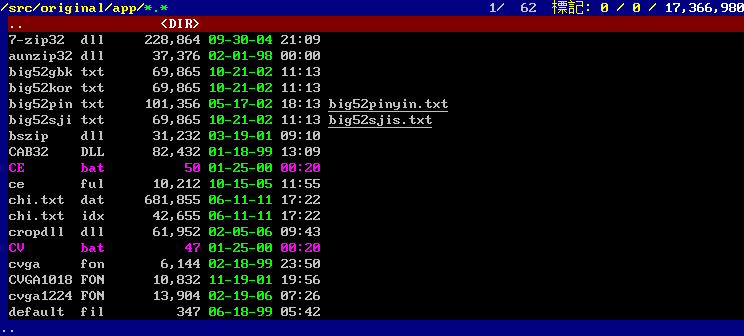
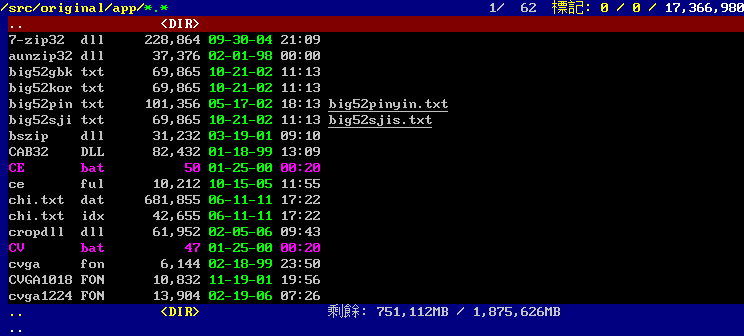
狀態列改成兩列,並接上真的磁碟容量
原版的狀態列是兩列,不是一列:

  第一列  游標檔案照**清單的欄位位置**再排一次(名稱、副檔名、大小、
          日期、時間都落在跟上面同一欄),#FFFF00;
          右邊接「剩餘: 可用 / 總量」,#C5C5C5。
          「剩餘」是接在時間欄之後,不是靠右對齊到畫面邊緣。
  第二列  完整檔名,#FFFFFF —— 清單那邊放的是截短版。

「剩餘」原本沒有資料源(Model.DiskBytes 從來沒人設過,所以永遠不顯示)。
補了 internal/vfs.DiskUsage,兩個平台各一份、都不用 cgo:

  unix     syscall.Statfs。可用空間取 Bavail 不是 Bfree ——
           後者含保留給 root 的那 5%,顯示出來會比實際可寫入的多。
           Bsize 在 Linux 是 int64、darwin 是 uint32,要先轉。
  windows  GetDiskFreeSpaceExW 而不是 GetDiskFreeSpace,
           後者的欄位是 32 位元,超過 2 TB 會回錯的值。

接成 Model.DiskStat hook 而不是直接呼叫 —— 壓縮檔內部也走同一個 Model,
那裡問「磁碟剩多少」沒有意義,由呼叫端決定要不要接。

驗證(docs/ui/main-screen.md 有重跑指令):
* 狀態列第二列 92 格**全部相同**,連字模都一樣 —— 三級驗收的第三級。
* 第一列 77/92,剩下的是「剩餘」的數字(值本來就會變)與那兩個全形字
  (Wine 用系統字型畫、帶消鋸齒,重製版是點陣字)。
* 總容量兩邊都量到 1,875,626MB,單位與換算對得上。
* 路徑列 + 清單 + 兩列狀態列共 1932 格:相同 85.2%,屬性差 16。

左側磁碟欄與捲軸不做:兩者都是 Win32 控制項,不在字元格點上,
結構上比不出等價。2 px 的分隔線同理,等高的格點塞不進去。

Changed region(s): [[0.0, 0.8929, 1.0, 0.9524]]

diff --git a/internal/browser/browser.go b/internal/browser/browser.go
@@ -38,7 +38,9 @@ type Theme struct {
 	MarkFG             cell.Color
 	MarkColBG          cell.Color // 最左邊那一欄(游標與標記的指示欄)的底色
 	CursorFG, CursorBG cell.Color
-	StatusFG, StatusBG cell.Color
+	StatusFG, StatusBG cell.Color // 第一列狀態列:游標檔案的各欄位
+	StatusDiskFG       cell.Color // 第一列右邊的「剩餘」
+	StatusNameFG       cell.Color // 第二列狀態列:完整檔名
 	BG                 cell.Color
 }
 
@@ -55,6 +57,8 @@ type Theme struct {
 //   - 游標列是白字配 #800000,不是反白。
 //   - 路徑列不是單一顏色:路徑本身 #FFFF00、尾巴的 "*.*" #00FF00、
 //     右邊的筆數 #C5C5C5、標記數 #FFFF00、目錄總位元組 #FFFFFF。
+//   - 狀態列是**兩列**:第一列把游標檔案照清單的欄位排一次(#FFFF00)
+//     加右邊的剩餘空間(#C5C5C5),第二列是完整檔名(#FFFFFF)。
 func DefaultTheme() Theme {
 	return Theme{
 		PathFG: cell.LtYellow, PathBG: cell.Blue,
@@ -66,7 +70,8 @@ func DefaultTheme() Theme {
 		MarkFG: cell.Yellow,
 		MarkColBG: cell.Blue,
 		CursorFG: cell.White, CursorBG: cell.Red,
-		StatusFG: cell.LtGray2, StatusBG: cell.Blue,
+		StatusFG: cell.LtYellow, StatusBG: cell.Blue,
+		StatusDiskFG: cell.LtGray2, StatusNameFG: cell.White,
 		BG: cell.Black,
 	}
 }
@@ -102,6 +107,11 @@ type Model struct {
 	// 設成 nil 就全部用 Theme.FileFG。判斷規則需要知道哪些副檔名是
 	// 壓縮檔、哪些是圖檔,那是上層才有的知識,所以做成 hook。
 	ColorOf func(e Entry) cell.Color
+
+	// DiskStat 回報這個目錄所在磁碟的可用與總容量,狀態列右邊要用。
+	// 做成 hook 而不是直接呼叫 vfs.DiskUsage —— 壓縮檔內部也走同一個
+	// Model,那裡問「磁碟剩多少」沒有意義,由呼叫端決定要不要接。
+	DiskStat func(dir string) (free, total int64)
 
 	// ReserveBottom 是畫面底部要留給別人用的列數(原版的預視窗格)。
 	// 狀態列會往上移到留白之上,列表也跟著變短。
@@ -146,6 +156,10 @@ func (m *Model) Load(dir string) error {
 	m.Notes = nil
 	if m.NoteLoader != nil {
 		m.Notes = m.NoteLoader(dir)
+	}
+	m.FreeBytes, m.DiskBytes = 0, 0
+	if m.DiskStat != nil {
+		m.FreeBytes, m.DiskBytes = m.DiskStat(dir)
 	}
 	return nil
 }
@@ -313,7 +327,7 @@ func (m *Model) Draw(s *cell.Screen) int {
 	s.Clear(t.FileFG, t.BG)
 
 	m.drawPathBar(s)
-	rows := s.Rows - 2 - m.ReserveBottom // 扣掉路徑列、狀態列與底部保留區
+	rows := s.Rows - 3 - m.ReserveBottom // 扣掉路徑列、兩列狀態列與底部保留區
 	if rows < 0 {
 		rows = 0
 	}
@@ -433,38 +447,65 @@ func (m *Model) drawRow(s *cell.Screen, y int, e Entry, cursor bool) {
 	}
 }
 
-// statusY 是狀態列的位置。有底部保留區時要往上讓。
+// statusY 是狀態列**第一列**的位置,第二列在它下面。
+// 有底部保留區時兩列一起往上讓。
 func (m *Model) statusY(s *cell.Screen) int {
-	y := s.Rows - 1 - m.ReserveBottom
+	y := s.Rows - 2 - m.ReserveBottom
 	if y < 1 {
-		y = s.Rows - 1
+		y = s.Rows - 2
+	}
+	if y < 1 {
+		y = 1
 	}
 	return y
 }
 
+// drawStatus 畫兩列狀態列。
+//
+// 第一列是游標所在檔案,**照清單的欄位位置**再排一次(不是重新排版):
+// 名稱、副檔名、大小、日期、時間都落在跟上面清單同一欄。
+// 原版就是這樣,量測見 docs/ui/main-screen.md。
+// 第二列是完整檔名 —— 清單那邊放的是截短版,長名要在這裡才看得全。
 func (m *Model) drawStatus(s *cell.Screen) {
 	t := m.Theme
 	y := m.statusY(s)
-	s.Fill(0, y, s.Cols, 1, ' ', t.StatusFG, t.StatusBG)
+	s.Fill(0, y, s.Cols, 2, ' ', t.StatusFG, t.StatusBG)
+
 	if e := m.Current(); e != nil {
-		line := e.Name
-		if !e.IsDir {
-			line = fmt.Sprintf("%s  %s", e.Name, comma(e.Size))
+		x := 1
+		x += s.Print(x, y, pad(truncate(e.Base(), colBase), colBase), t.StatusFG, t.StatusBG)
+		x++
+		x += s.Print(x, y, pad(truncate(e.Ext(), colExt), colExt), t.StatusFG, t.StatusBG)
+		x++
+		size := comma(e.Size)
+		if e.IsDir {
+			size = "<DIR>"
 		}
+		x += s.Print(x, y, lpad(size, colSize), t.StatusFG, t.StatusBG)
+		x++
 		if !e.ModTime.IsZero() {
-			line += "  " + e.ModTime.Format("2006-01-02 15:04")
+			x += s.Print(x, y, e.ModTime.Format("01-02-06"), t.StatusFG, t.StatusBG)
+			x++
+			s.Print(x, y, e.ModTime.Format("15:04"), t.StatusFG, t.StatusBG)
 		}
+
+		full := e.Name
 		if n := m.Notes[e.Name]; n != "" {
-			line += "  ; " + n
+			full += "  ; " + n
 		}
-		s.Print(0, y, line, t.StatusFG, t.StatusBG)
+		s.Print(1, y+1, full, t.StatusNameFG, t.StatusBG)
 	}
+
 	if m.DiskBytes > 0 {
 		right := fmt.Sprintf("剩餘: %sMB / %sMB",
 			comma(m.FreeBytes>>20), comma(m.DiskBytes>>20))
-		x := s.Cols - width(right)
+		// 原版把「剩餘」接在時間欄之後,不是靠右對齊到畫面邊緣。
+		x := 1 + colBase + 1 + colExt + 1 + colSize + 1 + colDate + 1 + colTime + 1
+		if x+width(right) > s.Cols {
+			x = s.Cols - width(right)
+		}
 		if x >= 0 {
-			s.Print(x, y, right, t.StatusFG, t.StatusBG)
+			s.Print(x, y, right, t.StatusDiskFG, t.StatusBG)
 		}
 	}
 }

diff --git a/internal/vfs/disk_test.go b/internal/vfs/disk_test.go
@@ -1,0 +1,32 @@
+package vfs
+
+import "testing"
+
+// 這條驗的是「有回答、而且答案自洽」,不驗絕對數字 ——
+// 任何一台機器的剩餘空間都不是常數。
+//
+// 沒有這條的話,平台分歧最容易出的錯(Bsize 型別轉換、
+// 欄位順序拿錯)會安靜地變成一個看起來合理的數字。
+func TestDiskUsage(t *testing.T) {
+	free, total, err := DiskUsage(t.TempDir())
+	if err != nil {
+		t.Fatalf("DiskUsage: %v", err)
+	}
+	if total == 0 {
+		t.Fatal("總容量是 0")
+	}
+	if free > total {
+		t.Errorf("可用 %d 比總量 %d 還大", free, total)
+	}
+	// 一個現代檔案系統不會小於 1 MB。抓的是「單位算錯」——
+	// 少乘一次 block size 會得到一個小得離譜但非零的數字。
+	if total < 1<<20 {
+		t.Errorf("總容量 %d 太小,單位可能算錯", total)
+	}
+}
+
+func TestDiskUsageMissingPath(t *testing.T) {
+	if _, _, err := DiskUsage("/this/path/does/not/exist"); err == nil {
+		t.Error("路徑不存在卻沒有回錯誤")
+	}
+}

diff --git a/internal/vfs/disk_windows.go b/internal/vfs/disk_windows.go
@@ -1,0 +1,36 @@
+package vfs
+
+import (
+	"syscall"
+	"unsafe"
+)
+
+var (
+	kernel32            = syscall.NewLazyDLL("kernel32.dll")
+	procGetDiskFreeSpce = kernel32.NewProc("GetDiskFreeSpaceExW")
+)
+
+// DiskUsage 回傳 path 所在磁碟的可用與總位元組。
+//
+// 走 GetDiskFreeSpaceExW 而不是 GetDiskFreeSpace:後者的欄位是 32 位元,
+// 超過 2 TB 的磁碟會回錯的值。
+//
+// 第一個輸出參數是「呼叫者的配額內可用」,第三個才是磁碟的實際剩餘;
+// 有磁碟配額時兩者不同,顯示給使用者看的是前者。
+func DiskUsage(path string) (free, total uint64, err error) {
+	p, err := syscall.UTF16PtrFromString(path)
+	if err != nil {
+		return 0, 0, err
+	}
+	var avail, totalBytes, totalFree uint64
+	r, _, e := procGetDiskFreeSpce.Call(
+		uintptr(unsafe.Pointer(p)),
+		uintptr(unsafe.Pointer(&avail)),
+		uintptr(unsafe.Pointer(&totalBytes)),
+		uintptr(unsafe.Pointer(&totalFree)),
+	)
+	if r == 0 {
+		return 0, 0, e
+	}
+	return avail, totalBytes, nil
+}

diff --git a/internal/app/shell.go b/internal/app/shell.go
@@ -8,6 +8,7 @@ import (
 	"github.com/wicanr2/wincv-remake/internal/launch"
 	"github.com/wicanr2/wincv-remake/internal/note"
 	"github.com/wicanr2/wincv-remake/internal/textenc"
+	"github.com/wicanr2/wincv-remake/internal/vfs"
 )
 
 // --- P 改變路徑 -----------------------------------------------------------
@@ -130,6 +131,19 @@ func (a *App) loadNotes(dir string) map[string]string {
 		return nil
 	}
 	return s.Raw()
+}
+
+// diskStat 是給 browser 的磁碟容量 hook。壓縮檔內部沒有對應的磁碟,
+// 回 0 讓狀態列不顯示 —— 顯示宿主磁碟的剩餘空間會誤導。
+func (a *App) diskStat(dir string) (free, total int64) {
+	if a.readOnlyHere() {
+		return 0, 0
+	}
+	f, t, err := vfs.DiskUsage(dir)
+	if err != nil {
+		return 0, 0
+	}
+	return int64(f), int64(t)
 }
 
 func (a *App) startNote() bool {

diff --git a/internal/vfs/disk_unix.go b/internal/vfs/disk_unix.go
@@ -1,0 +1,22 @@
+//go:build !windows
+
+package vfs
+
+import "syscall"
+
+// DiskUsage 回傳 path 所在檔案系統的可用與總位元組。
+//
+// 用 statfs 而不是 statvfs:前者是系統呼叫,不需要 cgo。
+// Bsize 在 Linux 是 int64、在 darwin 是 uint32,所以要先轉。
+//
+// 可用空間取 Bavail(非特權使用者真正拿得到的)而不是 Bfree
+// (含保留給 root 的那一塊)—— 兩者在預設 ext4 上差 5%,
+// 顯示 Bfree 會讓「剩餘空間」比實際可寫入的多。
+func DiskUsage(path string) (free, total uint64, err error) {
+	var st syscall.Statfs_t
+	if err := syscall.Statfs(path, &st); err != nil {
+		return 0, 0, err
+	}
+	bs := uint64(st.Bsize)
+	return uint64(st.Bavail) * bs, uint64(st.Blocks) * bs, nil
+}

diff --git a/internal/app/app.go b/internal/app/app.go
@@ -130,6 +130,7 @@ type layer struct {
 func New(fsys vfs.FS, dir string) *App {
 	a := &App{FS: fsys, Browser: browser.New(fsys, dir), CellW: 8, CellH: 15}
 	a.Browser.NoteLoader = a.loadNotes
+	a.Browser.DiskStat = a.diskStat
 	a.Browser.ColorOf = fileColor
 	a.Browser.Reload() // New 時 hook 還沒接上,重讀一次才會有註解
 	return a

diff --git a/docs/ui/main-screen.md b/docs/ui/main-screen.md
@@ -46,7 +46,7 @@ select_font Chosen: L"System Regular" (Z:\usr\share\wine\fonts\cvgasys.fon)
 | 22..38 | 工具列(Win32,含圖示) |
 | 40 | 路徑列 `C:\wincv\*.*` + 位置 + 標記統計(1 列) |
 | 56, 72, …, 328 | 檔案清單(**18 列**,間距 16) |
-| 344..345 | 2 px 分隔 |
+| 344..345 | 2 px 分隔(上白 `#FFFFFF`、下 `#C5C5C5`) |
 | 346, 362 | 狀態列(2 列) |
 | 378 起 | 預視窗格(8 列 × 16 = 128 px) |
 
@@ -72,7 +72,9 @@ select_font Chosen: L"System Regular" (Z:\usr\share\wine\fonts\cvgasys.fon)
 | 時間、大小 | 跟著檔案自己的顏色 | magenta 的檔案連時間都是 magenta |
 | 長檔名欄 | `#C0C0C0` + **底線** | 底線畫在格子的最後一條掃描線(第 15 條) |
 | 游標列 | 白字配 `#800000` | 不是反白 |
-| 狀態列 | `#C5C5C5` on `#000080` | |
+| 狀態列第一列 | `#FFFF00` on `#000080` | 游標檔案照清單的欄位再排一次 |
+| 狀態列的「剩餘」 | `#C5C5C5` | 接在時間欄之後,不是靠右對齊到畫面邊緣 |
+| 狀態列第二列 | `#FFFFFF` on `#000080` | 完整檔名 |
 
 `#C5C5C5` 是 `LTGRAY` 在 image 裡的**第二個**定義(0x50210);
 檔案清單用的是 0x1dc40 的 `#C0C0C0`。兩個定義都活著,不是同一個 word 被改過。
@@ -87,26 +89,28 @@ tools/celldiff.py docs/ui/oracle-window.png docs/ui/celldiff-remake.png \
 ```
 
 比的是同一個目錄(原版的 `C:\wincv` = 這裡的 `original/app`),游標放在同一列。
-路徑列 + 檔案清單共 1748 格:
+狀態列那兩列要另外對:原版被 2 px 的分隔線往下推,落在 y=346 / 362,
+不在 `oy=40` 起算的 16 px 格點上。
 
-| | 格數 |
-|---|---|
-| 完全相同 | 1478(84.6%) |
-| 版面差 | 74 |
-| **屬性差** | **12** |
-| 像素差 | 184 |
+| 範圍 | 格數 | 相同 | 版面差 | 屬性差 | 像素差 |
+|---|---|---|---|---|---|
+| 路徑列 + 清單 + 兩列狀態列 | 1932 | 1647(85.2%) | 74 | 16 | 195 |
+| 只看檔案清單 18 列 | 1656 | 1443(87.1%) | 38 | **0** | 175 |
+| 狀態列第二列 | 92 | **92(100%)** | 0 | 0 | 0 |
 
-**檔案清單那 16 列的屬性差是 0** —— 三級驗收的第二級(屬性等價)在清單區成立。
-剩下的 12 格屬性差全在路徑列,原因是路徑字串本身不一樣
-(`C:\wincv\` vs `/src/original/app/`),欄位的起點跟著移位。
+**檔案清單的屬性差是 0**,狀態列第二列連字模都完全相同 ——
+三級驗收的第二級(屬性等價)在這兩處成立,第二列連第三級(像素等價)也成立。
 
-版面差與像素差同樣多半是**資料不同**而不是畫錯:
+剩下的差異多半是**資料不同**而不是畫錯:
 
 - 檔案的修改時間不一樣(原版那份是 Wine 裡的複本)。
 - Wine 把長檔名顯示成 8.3 大寫短名(`BIG5~X5T TXT`),重製版顯示原名。
-- 第 92 欄是原版的 Win32 捲軸控制項,不在格點上,結構上比不出等價。
+- 「剩餘」的可用空間會隨時間變動;**總容量兩邊都是 1,875,626MB**,單位與換算對得上。
+- 狀態列第一列的 4 格屬性差是「剩餘」那兩個全形字:Wine 用系統字型畫、帶消鋸齒,
+  重製版是點陣字。這是 Wine 的算繪差異,不是版面差異。
 
-還沒實作而確實造成差異的:第二列狀態列(原版有兩列)、左側磁碟欄、捲軸。
+還沒實作的:2 px 分隔線(格點是等高的,塞不進 2 px 的橫線)、
+左側磁碟欄與捲軸(都是 Win32 控制項,不在格點上,結構上比不出等價)。
 
 ## 重製版對應
 

diff --git a/README.md b/README.md
@@ -72,7 +72,8 @@ CView 是「以前 DOS 時代最喜歡的一套軟體」，看圖「超快」，
 | 格子大小 | 8 × 16 | 8 × 16 | 字模 8×15 靠上對齊，下方留一列。原版列高取自它同時要求的 16 px 全形字 |
 | 選單與工具列 | Win32 選單列 + 圖示工具列 | 自繪的 `F1` 選單 | 全畫面都是自己畫的格點，不用原生控制項 |
 | 預視窗格 | 有 | `Alt-P`，底部 8 列 | 文字顯示前幾行、二進位排 16 進位、圖檔顯示格式與尺寸 |
-| 左側磁碟欄、捲軸、第二列狀態列 | 有 | 尚未實作 | 版面已量測，記在 `docs/ui/main-screen.md` |
+| 狀態列 | 兩列：檔案欄位 + 完整檔名 | 同樣兩列，逐格對過 | 第二列與原版**逐像素相同** |
+| 左側磁碟欄、捲軸 | 有 | 尚未實作 | 兩者都是 Win32 控制項，不在字元格點上 |
 | 副檔名配色 | 有（`.bat` 整列洋紅） | 尚未實作 | 原版可在設定裡改 |
 | KK 音標 | 自訂編碼，一個位元組一個音素 | 轉成 IPA 顯示（`ˈlɪtl̩`、`ˈbʌtn̩`） | 對照表解在 `internal/dict/kk.go` |
 | 字級 | 設定裡選三種點陣字型之一 | `Ctrl-+` / `Ctrl--` 即時切換同樣三種 | 24 點的全形漢字倚天光碟上是壓縮的，那一級的中文由 16×15 縮放 |
